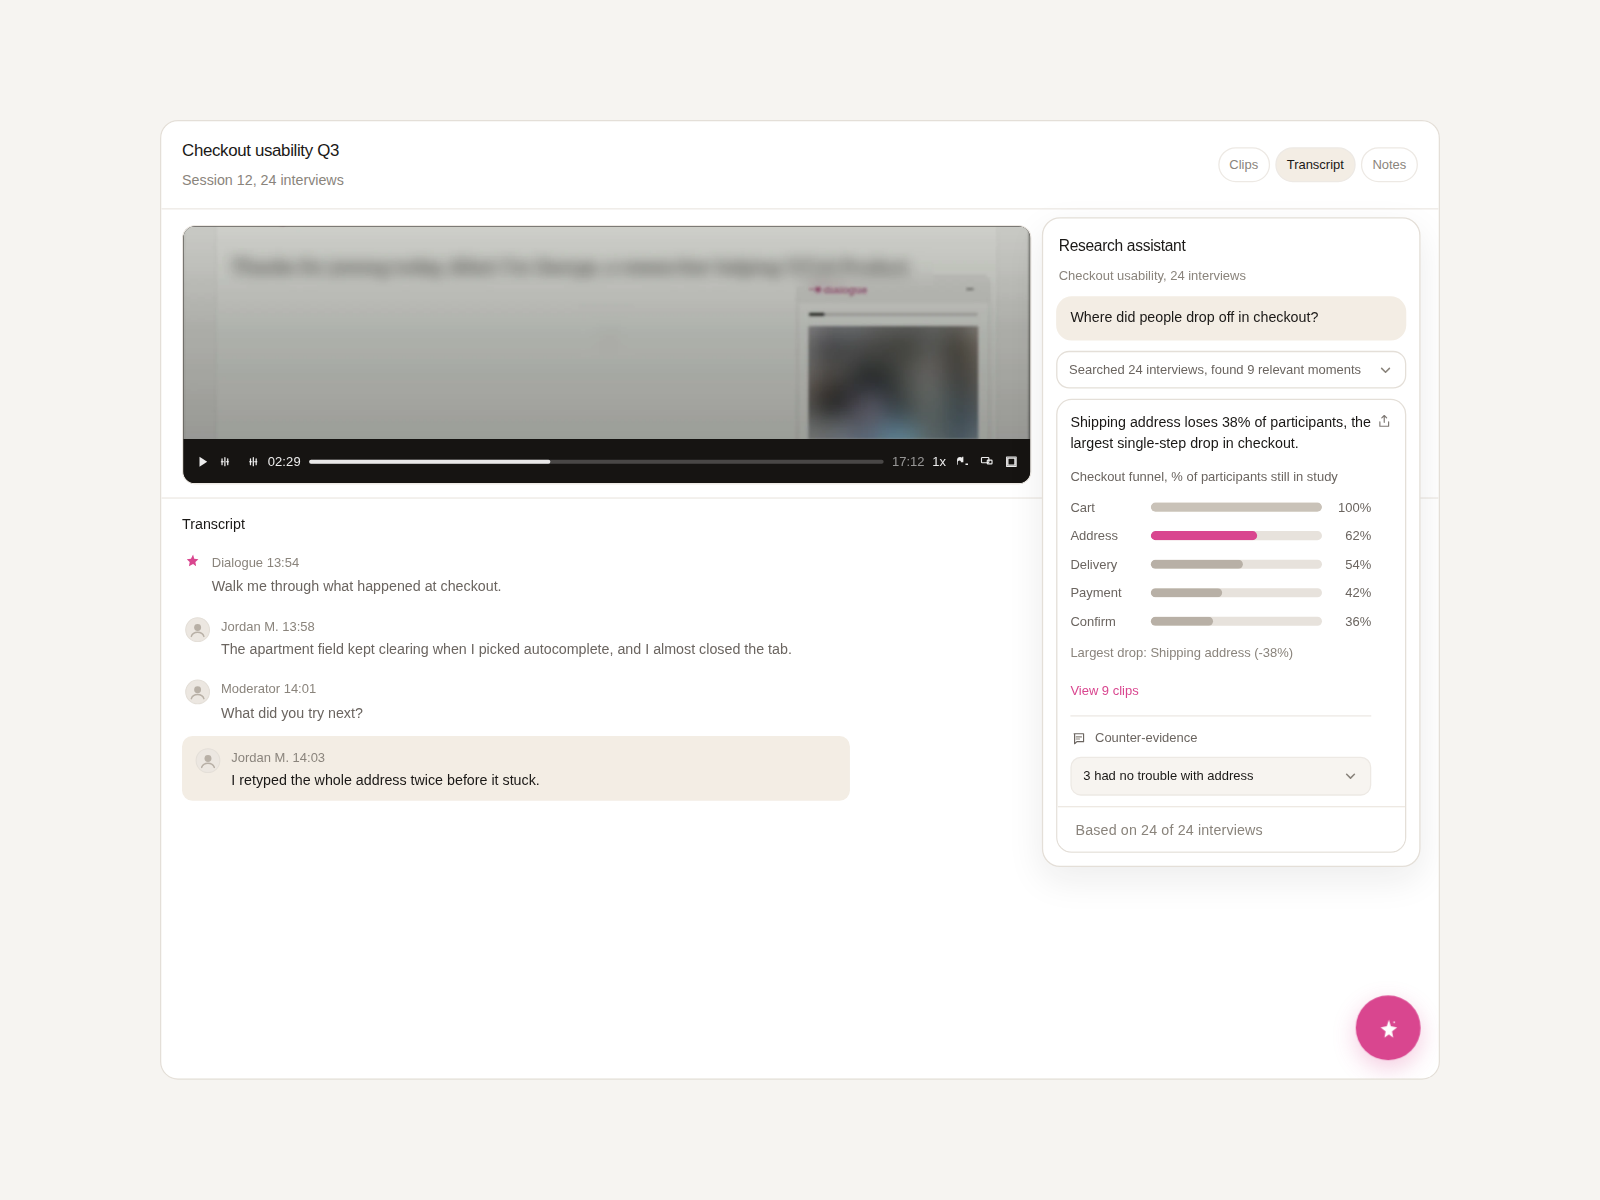
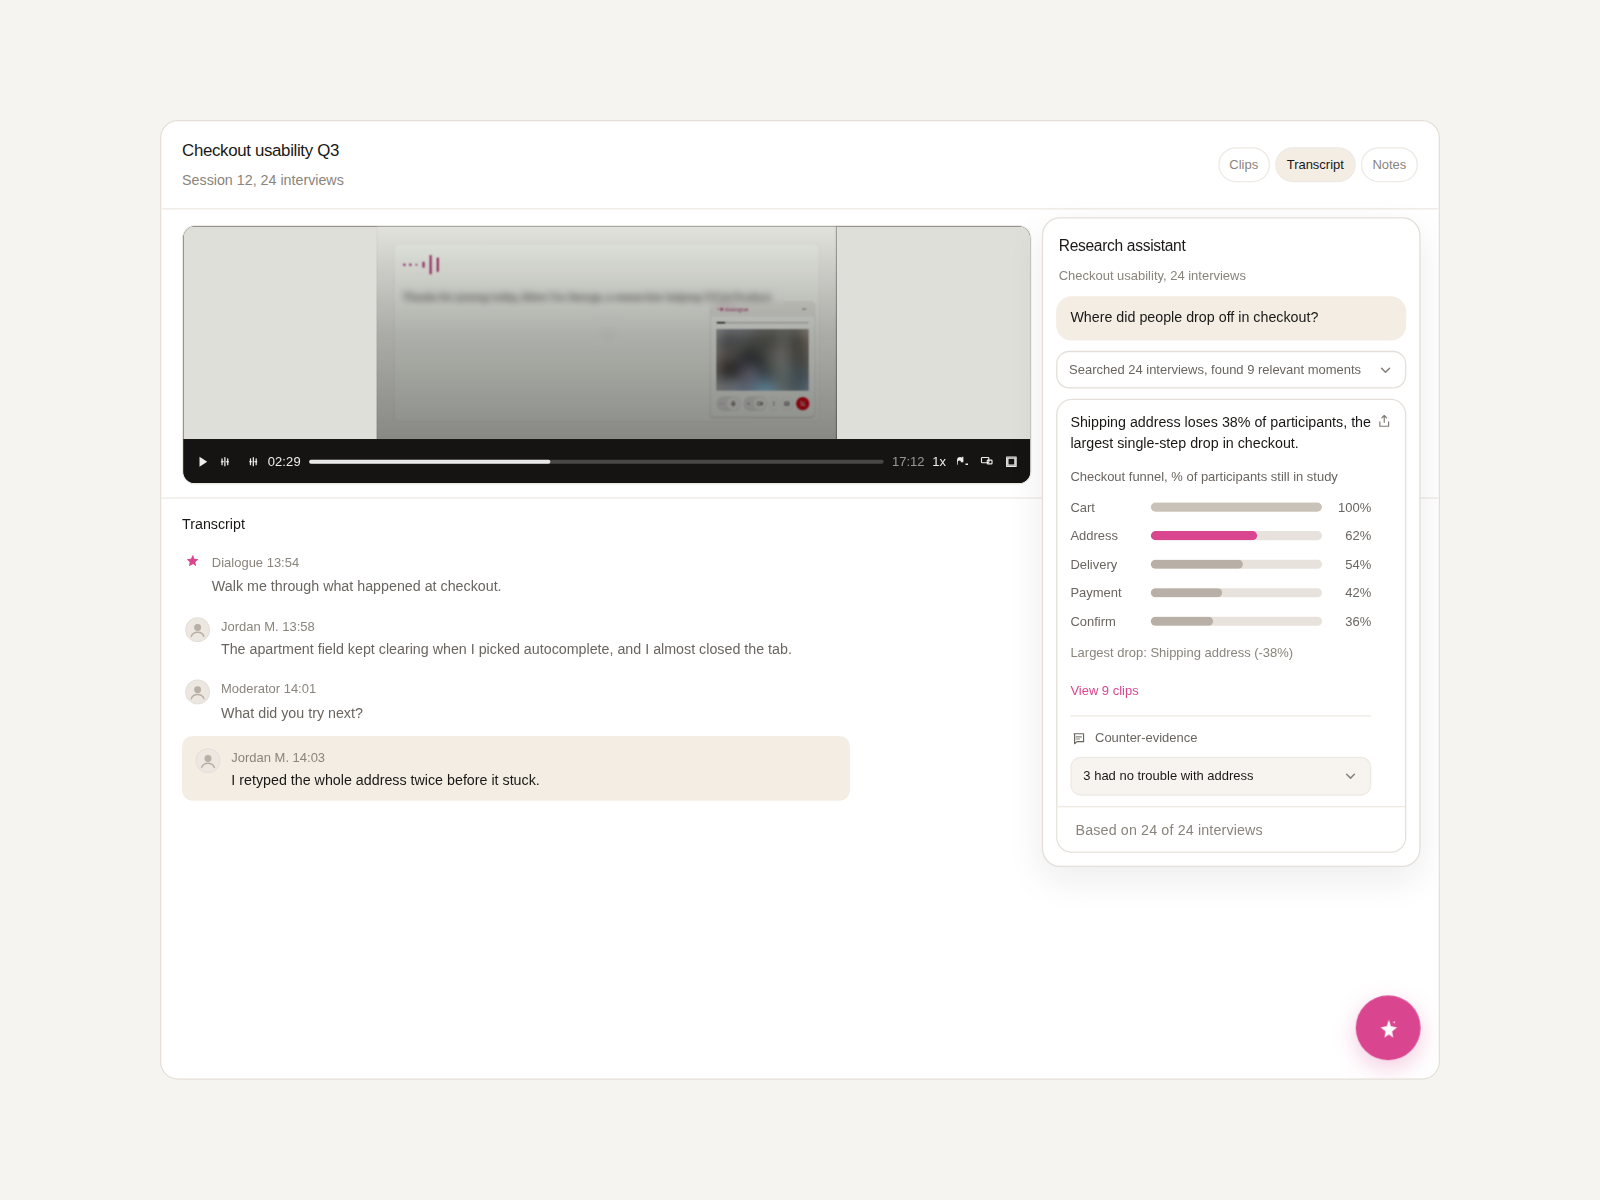
Dialogue placement: bind player to v2 PNG and verify still pixels
Point DialogueInterviewPlayer at public/dialogue/source/interview-frame.png
(v2) with object-fit contain and shared letterbox so floating and docked
tiles show the same framing. Add verify-placement-player-still.mjs to assert
floating≡docked, v2-not-v1, and blurred greeting before capture. Re-export
section-6 tiles and sync placement-video-still.webp from the v2 source.

Changed region(s): [[0.0938, 0.185, 0.6562, 0.37]]

diff --git a/components/dialogue/DialogueInterviewPlayer.tsx b/components/dialogue/DialogueInterviewPlayer.tsx
@@ -5,6 +5,10 @@ import {
   STUDY_PLAYER_PAD_X,
 } from "@/lib/caseStudies/dialogueStudyPlacementLayout";
 import { PLACEMENT_STUDY_WIDTH_DOCKED } from "@/lib/caseStudies/dialoguePlacementExport";
+import {
+  DIALOGUE_PLACEMENT_INTERVIEW_STILL_LETTERBOX,
+  DIALOGUE_PLACEMENT_INTERVIEW_STILL_SRC,
+} from "@/lib/caseStudies/dialoguePlacementStill";
 import { DIALOGUE_GRAPHICS_COLORS, DIALOGUE_GRAPHICS_FONT } from "@/lib/caseStudies/dialogueGraphicsTheme";
 import { DialoguePlayerControlBar } from "@/components/dialogue/DialoguePlayerControlBar";
 
@@ -22,8 +26,8 @@ export function DialogueInterviewPlayer() {
         border: `1px solid ${DIALOGUE_GRAPHICS_COLORS.borderSubtle}`,
         background: "#161412",
         position: "relative",
-        width: "100%",
-        maxWidth: PLACEMENT_PLAYER_BODY_WIDTH,
+        width: PLACEMENT_PLAYER_BODY_WIDTH,
+        maxWidth: "100%",
         height: PLACEMENT_PLAYER_TOTAL_HEIGHT,
         display: "flex",
         flexDirection: "column",
@@ -35,18 +39,22 @@ export function DialogueInterviewPlayer() {
           position: "relative",
           overflow: "hidden",
           flexShrink: 0,
+          background: DIALOGUE_PLACEMENT_INTERVIEW_STILL_LETTERBOX,
         }}
       >
         {/* eslint-disable-next-line @next/next/no-img-element */}
         <img
-          src="/dialogue/placement-video-still.webp"
+          data-dialogue-placement-still="true"
+          src={DIALOGUE_PLACEMENT_INTERVIEW_STILL_SRC}
           alt=""
+          width={1920}
+          height={888}
           style={{
             position: "absolute",
             inset: 0,
             width: "100%",
             height: "100%",
-            objectFit: "cover",
+            objectFit: "contain",
             objectPosition: "center center",
             display: "block",
           }}

diff --git a/lib/caseStudies/dialoguePlacementStill.ts b/lib/caseStudies/dialoguePlacementStill.ts
@@ -1,0 +1,8 @@
+/** Canonical v2 interview pause frame (privacy-blurred greeting, no cursor). */
+export const DIALOGUE_PLACEMENT_INTERVIEW_STILL_SRC = "/dialogue/source/interview-frame.png";
+
+export const DIALOGUE_PLACEMENT_INTERVIEW_STILL_WIDTH = 1920;
+export const DIALOGUE_PLACEMENT_INTERVIEW_STILL_HEIGHT = 888;
+
+/** Letterbox fill sampled from the frame’s outer gray (object-fit: contain). */
+export const DIALOGUE_PLACEMENT_INTERVIEW_STILL_LETTERBOX = "#dfdfda";
